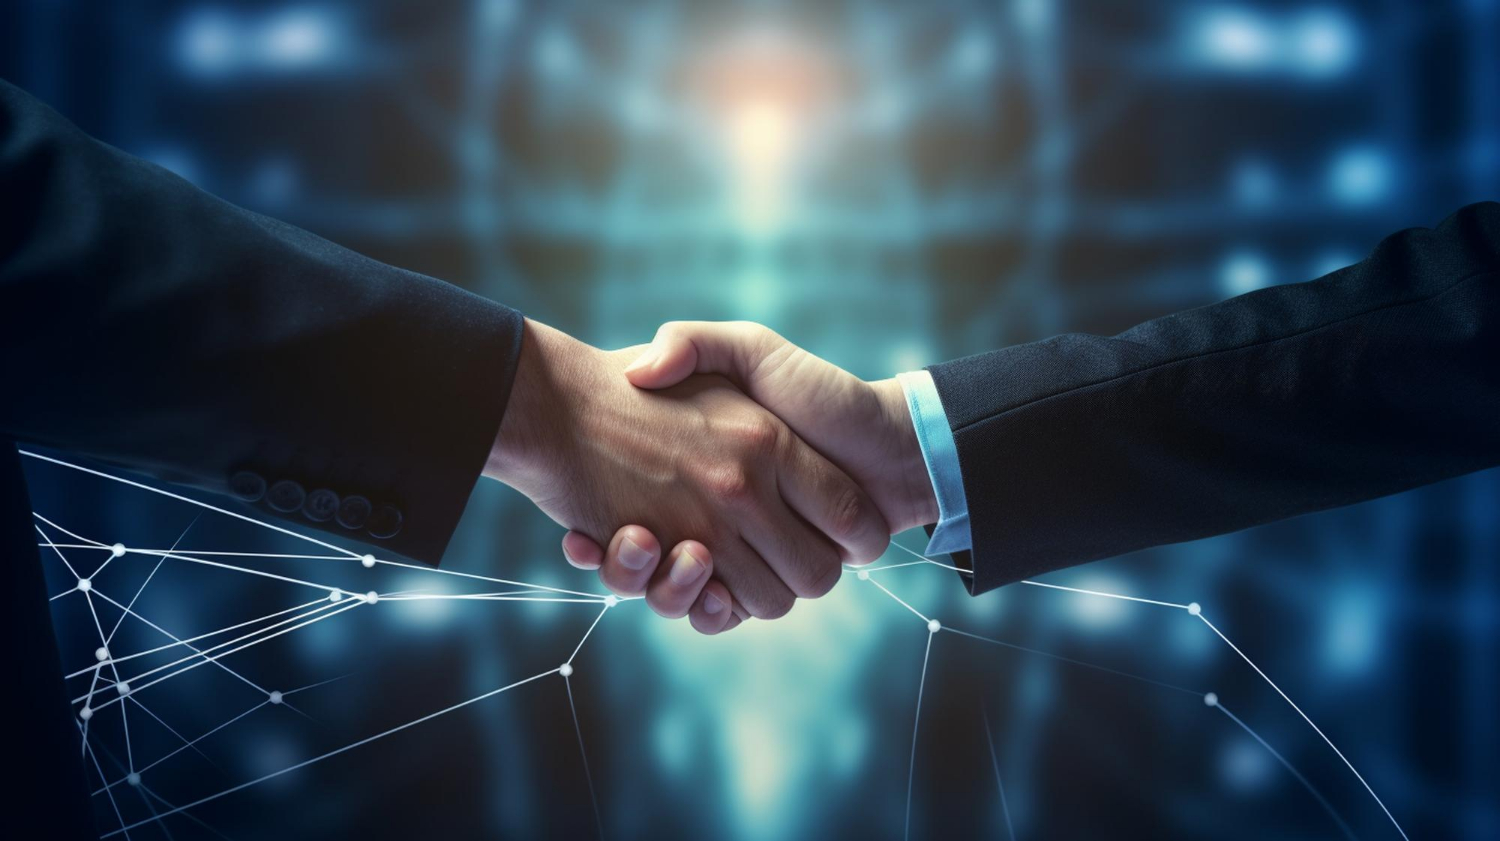
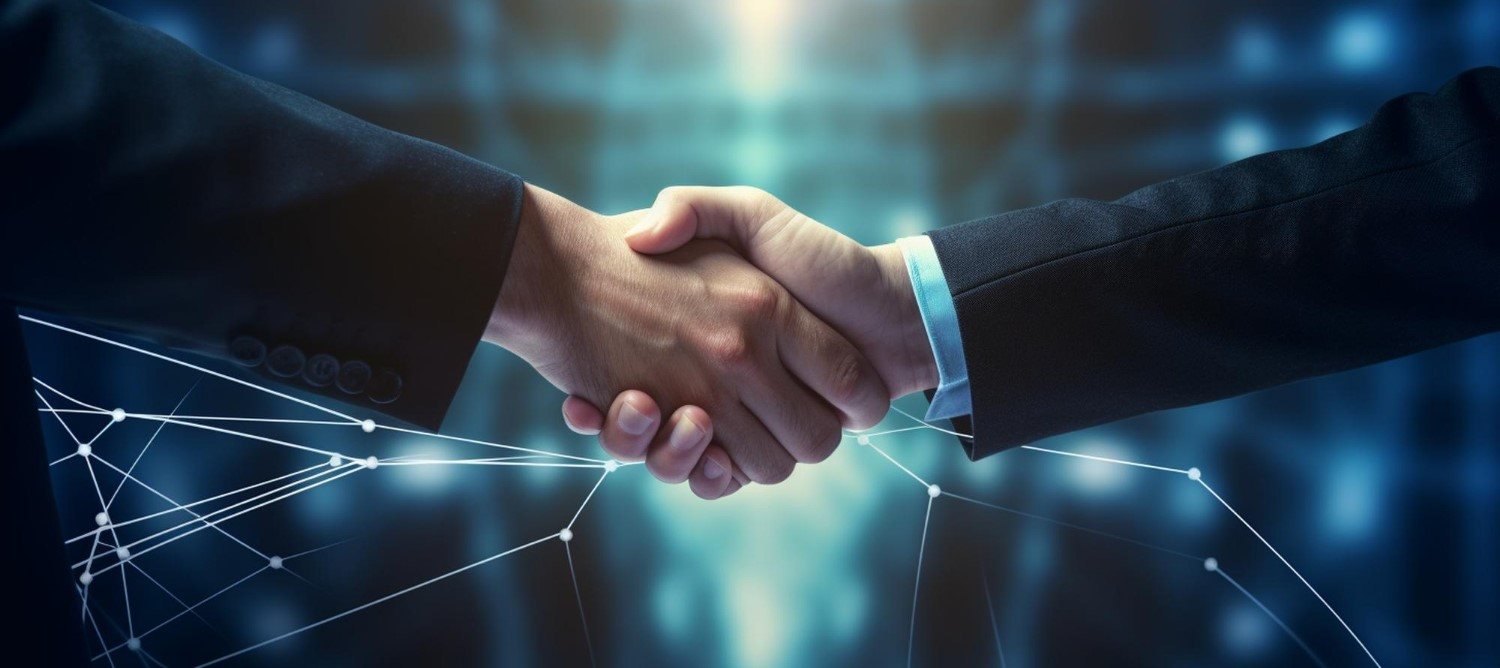
added a contact part & css style

diff --git a/style/style.css b/style/style.css
@@ -6,14 +6,14 @@
     font-variation-settings:
       "wdth" 100;
   }
-  /* about section  */
+  /*------------------------------------------- about section  */
   .about{
     border-radius: 10px;
     padding: 68px 150px 86px 150px;
     text-align: center;
     margin: 130px;
 }
-/* banner style  */
+/*------------------------------------------------------ banner style  */
 nav{
     display: flex;
     align-items: center;
@@ -60,7 +60,7 @@ nav{
     background: #000;
     color: #fff;
 }
-/* Development style  */
+/*--------------------------------------------------- Development style  */
 main{
     font-family: "Open Sans", sans-serif;
 }
@@ -109,7 +109,7 @@ opacity: 0.7;
     opacity: 0.7;
     padding: 10px;
 }
-/* inspiration style  */
+/*----------------------------------------------- inspiration style  */
 .inspiration {
     margin-top: -119px;
     height: 800px;
@@ -139,7 +139,7 @@ opacity: 0.7;
     border-radius: 20px;
     width: 96%;
 }
-/* current-target style  */
+/*------------------------------------------ current-target style  */
 .current-target-top{
         padding: 20px 99px;
 }
@@ -228,7 +228,7 @@ font-size: 16px;
 line-height: 19px;
 text-align: left;
 }
-/* next target style  */
+/* -----------------------------------------next target style  */
 .next-target {
     padding: 20px 21px;
 }
@@ -244,7 +244,7 @@ text-align: left;
     border: 1px solid rgba(13, 19, 33, 0.15);
     border-radius: 16px;
     background: rgb(255, 255, 255);
-    padding: 10px 108px;
+    padding: 10px 138px;
     margin: 36px 0px;
 
 }
@@ -287,12 +287,47 @@ text-align: left;
     border: 1px solid rgba(13, 19, 33, 0.15);
     border-radius: 16px;
     background: rgb(255, 255, 255);
-    padding: 10px 108px;
+    padding: 10px 84px;
     margin: 36px 0px;
-
 }
+/* -----------------------------------------i nead sapurt style  */
 
-
-
+.contact {
+    background-image: url(../assets/handshake.jpg);
+    border-radius: 16px;
+    background-repeat: no-repeat;
+    background-size: cover;
+}
+.contact h2{
+    color: rgb(255, 255, 255);
+font-size: 32px;
+line-height: 36px;
+text-align: center;
+}
+.contact p{
+    color: rgb(255, 255, 255);
+font-size: 16px;
+line-height: 26px;
+text-align: center;
+opacity: 0.7;
+}
+.input-type {
+    box-sizing: border-box;
+    border: 1px solid rgba(13, 19, 33, 0.15);
+    border-radius: 8px;
+    background: rgb(255, 255, 255);
+    width: 360px;
+    padding: 17px 16px;
+    font-size: 16px;
+}
+.input-btn {
+    border-radius: 8px;
+    background: rgb(255, 255, 255);
+    width: 91px;
+    padding: 18px;
+    font-size: 17px;
+    border: none;
+    margin-left: 12px;
+}
 
 

diff --git a/index.html b/index.html
@@ -112,7 +112,7 @@
 
         <section class="next-target about">
             <div class="next-target-top">
-                <h1 class="inspiration-title">My Current Target</h1>
+                <h1 class="inspiration-title">My Next Target</h1>
                 <p class="inspiration-description">HTML defines the structure of your content, CSS determines the style and layout. JavaScript incorporates valuable skills such as object-oriented, functional, and imperative styles of programming</p>
             </div>
             <div class="next-target-bottom">
@@ -154,9 +154,20 @@
                 </div>
             </div>
         </section>
+
+        <section class="about contact" id="footer">
+            <h2 class="inspiration-title">I need Support</h2>
+            <p class="inspiration-description">Meaning- To give help, assist someone, give aid or defend another in need.</p>
+            <form action="">
+                <input class="input-type" type="text" placeholder="Suggest me any feedback for me" name="" id="">
+                <input class="input-btn" type="submit" value="Submit">
+            </form>
+        </section>
+
     </main>
 
+<footer>
 
-    </footer>
+</footer>
 </body>
 </html>
